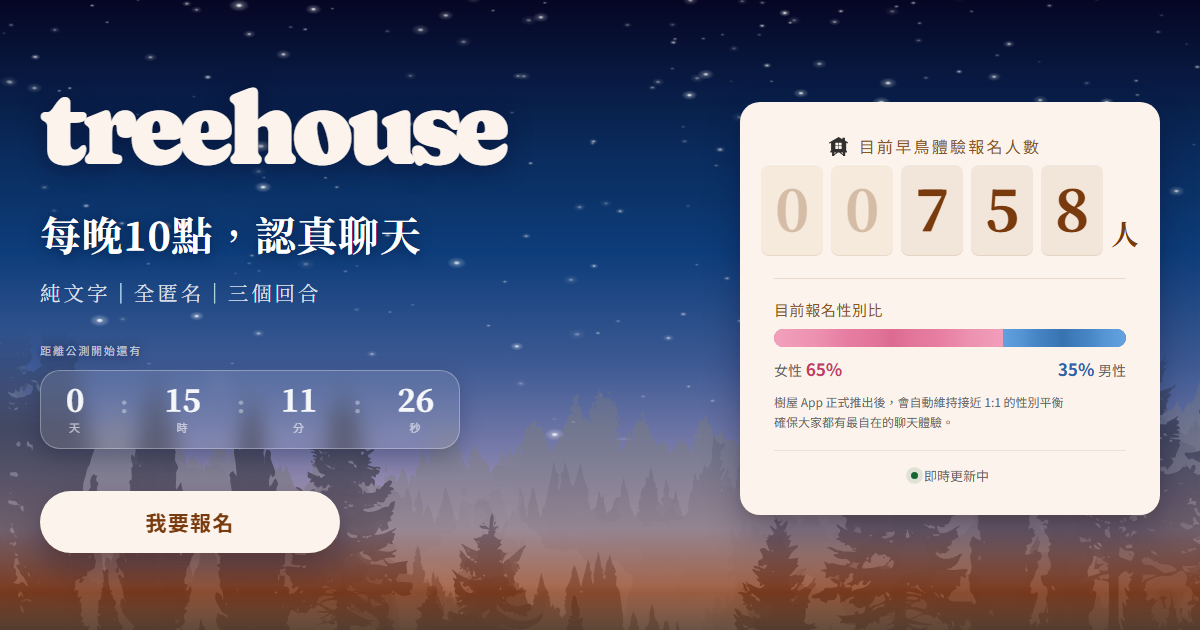
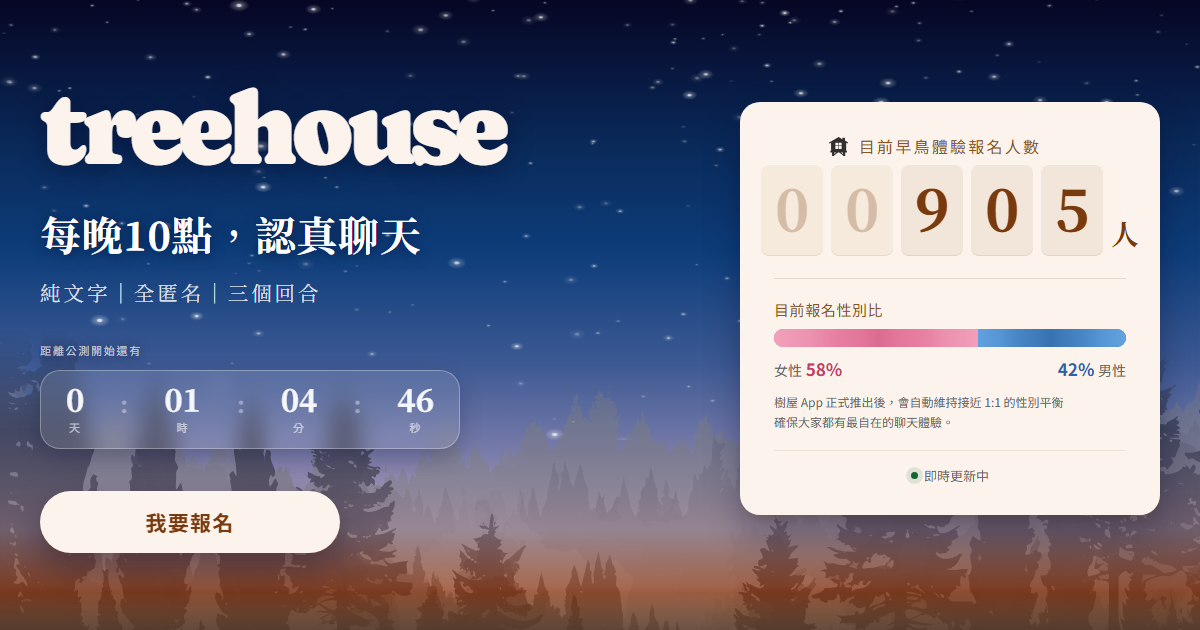
chore(join): refresh share card for the 0827d8 post
Re-shot at 905 signups with the ratio at 58/42, where the step table locked as
designed. The previous card was from last night at 758 and 65%, so both numbers
on it were wrong.

baseValue aligned to 905 by build-og-image.sh, and the static counter in
index.html follows it - that is what no-JS extractors read.

Note the card bakes in a countdown of about an hour. After 12:00 the page
switches to "公測已經開始" and this card contradicts it, so it needs another
re-shoot for any post made after that.

diff --git a/join/index.html b/join/index.html
@@ -102,8 +102,8 @@
             <span><img class="signboard__mark" src="/assets/img/house-mark.svg" alt="" width="15" height="15">目前早鳥體驗報名人數</span>
           </p>
           <p class="signboard__count">
-            <span class="odo" id="signupNumber" role="img" aria-label="758" data-value="758">
-              <b class="odo__d odo__d--lead">0</b><b class="odo__d odo__d--lead">0</b><b class="odo__d">7</b><b class="odo__d">5</b><b class="odo__d">8</b>
+            <span class="odo" id="signupNumber" role="img" aria-label="905" data-value="905">
+              <b class="odo__d odo__d--lead">0</b><b class="odo__d odo__d--lead">0</b><b class="odo__d">9</b><b class="odo__d">0</b><b class="odo__d">5</b>
             </span>
             <span class="signboard__unit">人</span>
           </p>

diff --git a/assets/join.config.js b/assets/join.config.js
@@ -20,7 +20,7 @@ window.JOIN_CONFIG = {
     // 明顯是錯的。現在改成每次跑 tools/build-og-image.sh 重截分享卡時自動對齊當下真值
     // （腳本會讀 __JOIN_DEBUG__.lastGoodFetch.sheet），所以這裡通常不用手改。
     // 要調整起算人數仍然是改 Sheet 的 B2。
-    baseValue: 758,
+    baseValue: 905,
     round: "floor",             // "floor" 無條件捨去到整數；"none" 不處理（Sheet 應該本來就是整數）
 
     // ⚠ 這份試算表會被公開讀取（Google 的 gviz 端點要求整份表可公開存取）。
